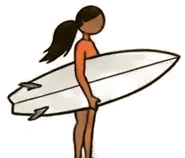
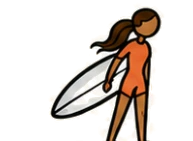
feat: open on the storyboard frame that holds both cliffs
The take starts tight on the left cliff and the right one does not enter
until frame 37, by which point she has jumped, so the film alone can never
show the pair together. The page now opens on storyboard frame 2 — both
cliffs, her standing, no speech bubble — with its baked nav painted out and
its paper warmed to match, and dissolves into the film over the first 360px
of scroll.

The two are different drawings, so the dissolve is registered on landmarks
they share, the left cliff's top corner and the waterline below it: the
still is walked onto the film's framing as it fades rather than ghosting
against it. The hover cut-out now belongs to the still and leaves with it.

diff --git a/site/main.js b/site/main.js
@@ -33,7 +33,16 @@ const ACTS = {
   skills:   [0.745, 0.885],
   services: [0.915, 1.000],
 };
-const FIGURE_UNTIL = 0.05;    // past this she has moved and the cut-out lies
+const OPENING_OUT = [0.008, 0.040];   // the still dissolves into the film here
+
+/* The still is a wider framing than the take. These are the same two points
+   in both — the left cliff's top corner, and the waterline below it — so the
+   still can be walked onto the film's framing as it fades, instead of the two
+   ghosting against each other. */
+const LAND = {
+  still: { w: 1440, h: 1024, x: 0.2583, top: 0.3955, water: 0.8203 },
+  film:  { x: 0.2289, top: 0.3806, water: 0.8194 },
+};
 
 /** Scroll position -> frame, through the cue points above. */
 function frameAt(p) {
@@ -104,13 +113,13 @@ function filmstrip(canvas, count, url, onReady) {
   return { seek: (frame) => draw(Math.round(frame) - 1) };
 }
 
-/** Where a point in the film's own frame lands on screen, under object-fit. */
-function filmToScreen(canvas) {
-  const box = canvas.getBoundingClientRect();
-  const cs = getComputedStyle(canvas);
+/** Where a point in a media element's own frame lands on screen. */
+function mediaToScreen(el, nw, nh) {
+  const box = el.getBoundingClientRect();
+  const cs = getComputedStyle(el);
   const pick = cs.objectFit === "contain" ? Math.min : Math.max;
-  const s = pick(box.width / canvas.width, box.height / canvas.height);
-  const spare = { x: box.width - canvas.width * s, y: box.height - canvas.height * s };
+  const s = pick(box.width / nw, box.height / nh);
+  const spare = { x: box.width - nw * s, y: box.height - nh * s };
   // object-position: keywords and percentages both, x then y.
   const WORDS = { left: 0, top: 0, center: 0.5, right: 1, bottom: 1 };
   const parts = cs.objectPosition.split(/\s+/);
@@ -144,22 +153,51 @@ function startStory() {
   const offers = [...document.querySelectorAll(".services li")];
   const figure = document.getElementById("heroFigure");
   const poke = document.getElementById("heroPoke");
+  const opening = document.getElementById("opening");
 
-  // The cut-out sits exactly where she is drawn in frame one.
-  const FIG = { x: 0.1375, y: 0.1556, w: 0.1445, h: 0.2194 };
+  // The cut-out sits exactly where she is drawn on the opening frame.
+  const OPEN_W = LAND.still.w;
+  const OPEN_H = LAND.still.h;
+  const FIG = { x: 0.1368, y: 0.2559, w: 0.1340, h: 0.1377 };
+
+  /* Where the still has to end up for its scene to sit on the film's. */
+  let fit = { k: 1, tx: 0, ty: 0 };
+  function measureFit() {
+    if (!opening) return;
+    const mo = mediaToScreen(opening, OPEN_W, OPEN_H);
+    const mf = mediaToScreen(canvas, canvas.width, canvas.height);
+    const sx = mo.left + LAND.still.x * OPEN_W * mo.s;
+    const sy = mo.top + LAND.still.top * OPEN_H * mo.s;
+    const sw = mo.top + LAND.still.water * OPEN_H * mo.s;
+    const fx = mf.left + LAND.film.x * canvas.width * mf.s;
+    const fy = mf.top + LAND.film.top * canvas.height * mf.s;
+    const fw = mf.top + LAND.film.water * canvas.height * mf.s;
+    const span = sw - sy;
+    const k = Math.abs(span) < 1 ? 1 : (fw - fy) / span;
+    const box = opening.getBoundingClientRect();
+    fit = {
+      k,
+      tx: fx - box.left - (sx - box.left) * k,
+      ty: fy - box.top - (sy - box.top) * k,
+    };
+  }
 
   function placeFigure() {
-    if (!figure) return;
-    const m = filmToScreen(canvas);
-    figure.style.left = `${m.left + FIG.x * canvas.width * m.s}px`;
-    figure.style.top = `${m.top + FIG.y * canvas.height * m.s}px`;
-    figure.style.width = `${FIG.w * canvas.width * m.s}px`;
+    if (!figure || !opening) return;
+    const m = mediaToScreen(opening, OPEN_W, OPEN_H);
+    const x = m.left + FIG.x * OPEN_W * m.s;
+    const y = m.top + FIG.y * OPEN_H * m.s;
+    const w = FIG.w * OPEN_W * m.s;
+    const h = FIG.h * OPEN_H * m.s;
+    figure.style.left = `${x}px`;
+    figure.style.top = `${y}px`;
+    figure.style.width = `${w}px`;
     if (poke) {
       const pad = 14;
-      poke.style.left = `${m.left + FIG.x * canvas.width * m.s - pad}px`;
-      poke.style.top = `${m.top + FIG.y * canvas.height * m.s - pad}px`;
-      poke.style.width = `${FIG.w * canvas.width * m.s + pad * 2}px`;
-      poke.style.height = `${FIG.h * canvas.height * m.s + pad * 2}px`;
+      poke.style.left = `${x - pad}px`;
+      poke.style.top = `${y - pad}px`;
+      poke.style.width = `${w + pad * 2}px`;
+      poke.style.height = `${h + pad * 2}px`;
     }
   }
 
@@ -176,9 +214,11 @@ function startStory() {
   }
 
   placeFigure();
-  addEventListener("resize", placeFigure);
+  measureFit();
+  addEventListener("resize", () => { measureFit(); placeFigure(); });
 
   if (REDUCED) {
+    if (opening) opening.style.display = "none";
     acts.forEach((a) => a.classList.add("on"));
     cards.forEach((c) => c.classList.add("on"));
     steps.forEach((s) => s.classList.add("in"));
@@ -212,12 +252,22 @@ function startStory() {
     cascade(steps, within(p, ACTS.skills), 0.12, 0.7);
     cascade(offers, within(p, ACTS.services), 0.05, 0.62);
 
-    // The cut-out only tells the truth while she is standing still.
+    // Dissolve the wide opening into the take, pushing in as it goes so the
+    // change of framing reads as a camera move rather than a cut.
+    const out = within(p, OPENING_OUT);
+    if (opening) {
+      const t = ease(out);
+      const k = 1 + (fit.k - 1) * t;
+      opening.style.opacity = (1 - t).toFixed(3);
+      opening.style.transform =
+        `translate(${(fit.tx * t).toFixed(2)}px, ${(fit.ty * t).toFixed(2)}px) scale(${k.toFixed(4)})`;
+      opening.style.visibility = out >= 1 ? "hidden" : "visible";
+    }
+    // She belongs to the opening frame, and goes before it has moved far.
     if (figure) {
-      const still = p < FIGURE_UNTIL;
-      figure.classList.toggle("gone", !still);
-      if (poke) poke.hidden = !still;
-      if (still) placeFigure();
+      figure.style.opacity = (1 - ease(clamp01(out * 2.6))).toFixed(3);
+      if (poke) poke.hidden = out > 0.12;
+      if (out < 0.5) placeFigure();
     }
   };
 }

diff --git a/site/style.css b/site/style.css
@@ -117,15 +117,24 @@ a { color: inherit; }
 }
 .film-loading[hidden] { display: block; opacity: 0; pointer-events: none; }
 
-/* She is drawn twice: once in the film, once as this cut-out sitting exactly
-   on top of it, so she can react without the scene moving. */
+/* The wide opening frame, dissolving into the tighter take beneath it. */
+.opening {
+  position: absolute;
+  inset: 0;
+  width: 100%;
+  height: 100%;
+  object-fit: cover;
+  transform-origin: 0 0;       /* the registration maths assumes this */
+  will-change: opacity, transform;
+}
+
+/* She is drawn once more as this cut-out, sitting exactly on top of the
+   opening frame, so she can react without the scene moving. */
 .hero-figure {
   position: absolute;
   transform-origin: 50% 100%;
-  transition: transform .45s cubic-bezier(.34, 1.56, .64, 1), opacity .3s;
-  pointer-events: none;
+  pointer-events: none;   /* opacity is driven per frame; no transition to fight */
 }
-.hero-figure.gone { opacity: 0; }
 .hero-figure.poked { animation: poke 1.1s ease-in-out; }
 @keyframes poke {
   0%   { transform: rotate(0) translateY(0); }
@@ -354,7 +363,7 @@ a { color: inherit; }
 @media (max-width: 860px) {
   /* A portrait screen cannot crop 16:9 without swallowing her whole, so the
      film sits along the foot of the frame and the words live above it. */
-  #film { object-fit: contain; object-position: center bottom; }
+  #film, .opening { object-fit: contain; object-position: center bottom; }
   #story { height: 820svh; }
   .act { padding-top: 76px; }
   .act-title b { font-size: clamp(22px, 7vw, 30px); }

diff --git a/site/index.html b/site/index.html
@@ -30,8 +30,14 @@
   <section id="story" aria-label="Introduction">
     <div class="stage">
       <canvas id="film" width="1200" height="675" aria-hidden="true"></canvas>
+      <!-- The storyboard's opening frame, which holds both cliffs together.
+           The take itself starts tighter, so the page opens on this and
+           dissolves into the film on the first stretch of scroll. -->
+      <img class="opening" id="opening" src="assets/opening.webp"
+           alt="A surfer stands with her board on a cliff marked What I am, facing a second cliff marked What I offer across the water"
+           width="1440" height="1024">
       <img class="hero-figure" id="heroFigure" src="assets/hero-figure.webp"
-           alt="" width="185" height="158" aria-hidden="true">
+           alt="" width="193" height="141" aria-hidden="true">
       <button class="hero-poke" id="heroPoke" type="button" aria-label="Say hello to the surfer"></button>
       <p class="film-loading" id="filmLoading">Waxing the board…</p>
 

diff --git a/README.md b/README.md
@@ -33,9 +33,13 @@ off that same scroll position:
 
 Personal and contact follow in ordinary flow once the film is done.
 
-Hovering the surfer on the opening cliff makes her react: she is drawn twice,
-once in the film and once as a cut-out (`assets/hero-figure.webp`) sitting
-exactly on top of it, so she can move without the scene moving with her.
+The page opens on `assets/opening.webp` — storyboard frame 2, the only framing
+with both cliffs and her standing — and dissolves into the film on the first
+stretch of scroll, walking the still onto the film's framing as it goes.
+
+Hovering the surfer makes her react: she is drawn twice, once in the opening
+frame and once as a cut-out (`assets/hero-figure.webp`) sitting exactly on top
+of it, so she can move without the scene moving with her.
 
 ## Case studies
 
@@ -82,7 +86,10 @@ Every path in the site is relative, so it serves correctly from the
   stretch with neither cliff in frame — the camera hands off directly from one
   to the other — so the ride is timed to keep it to a sliver at the right rather
   than out of shot entirely.
-- **The opening shows one cliff, not two.** The take starts tight on the left
-  cliff; the right one only enters at frame 37, by which point she has already
-  jumped. Both cliffs cannot be in the first still without footage that holds
-  them together, or a composited opening frame.
+- **The opening is a still, not the film.** The take starts tight on the left
+  cliff — the right one only enters at frame 37, by which point she has already
+  jumped — so the page opens on storyboard frame 2, which holds both cliffs
+  together, and dissolves into the film over the first 360px of scroll. The two
+  are different drawings of the same scene, so the crossover is registered on
+  shared landmarks (the left cliff's top corner and the waterline below it) but
+  cannot overlap exactly.
